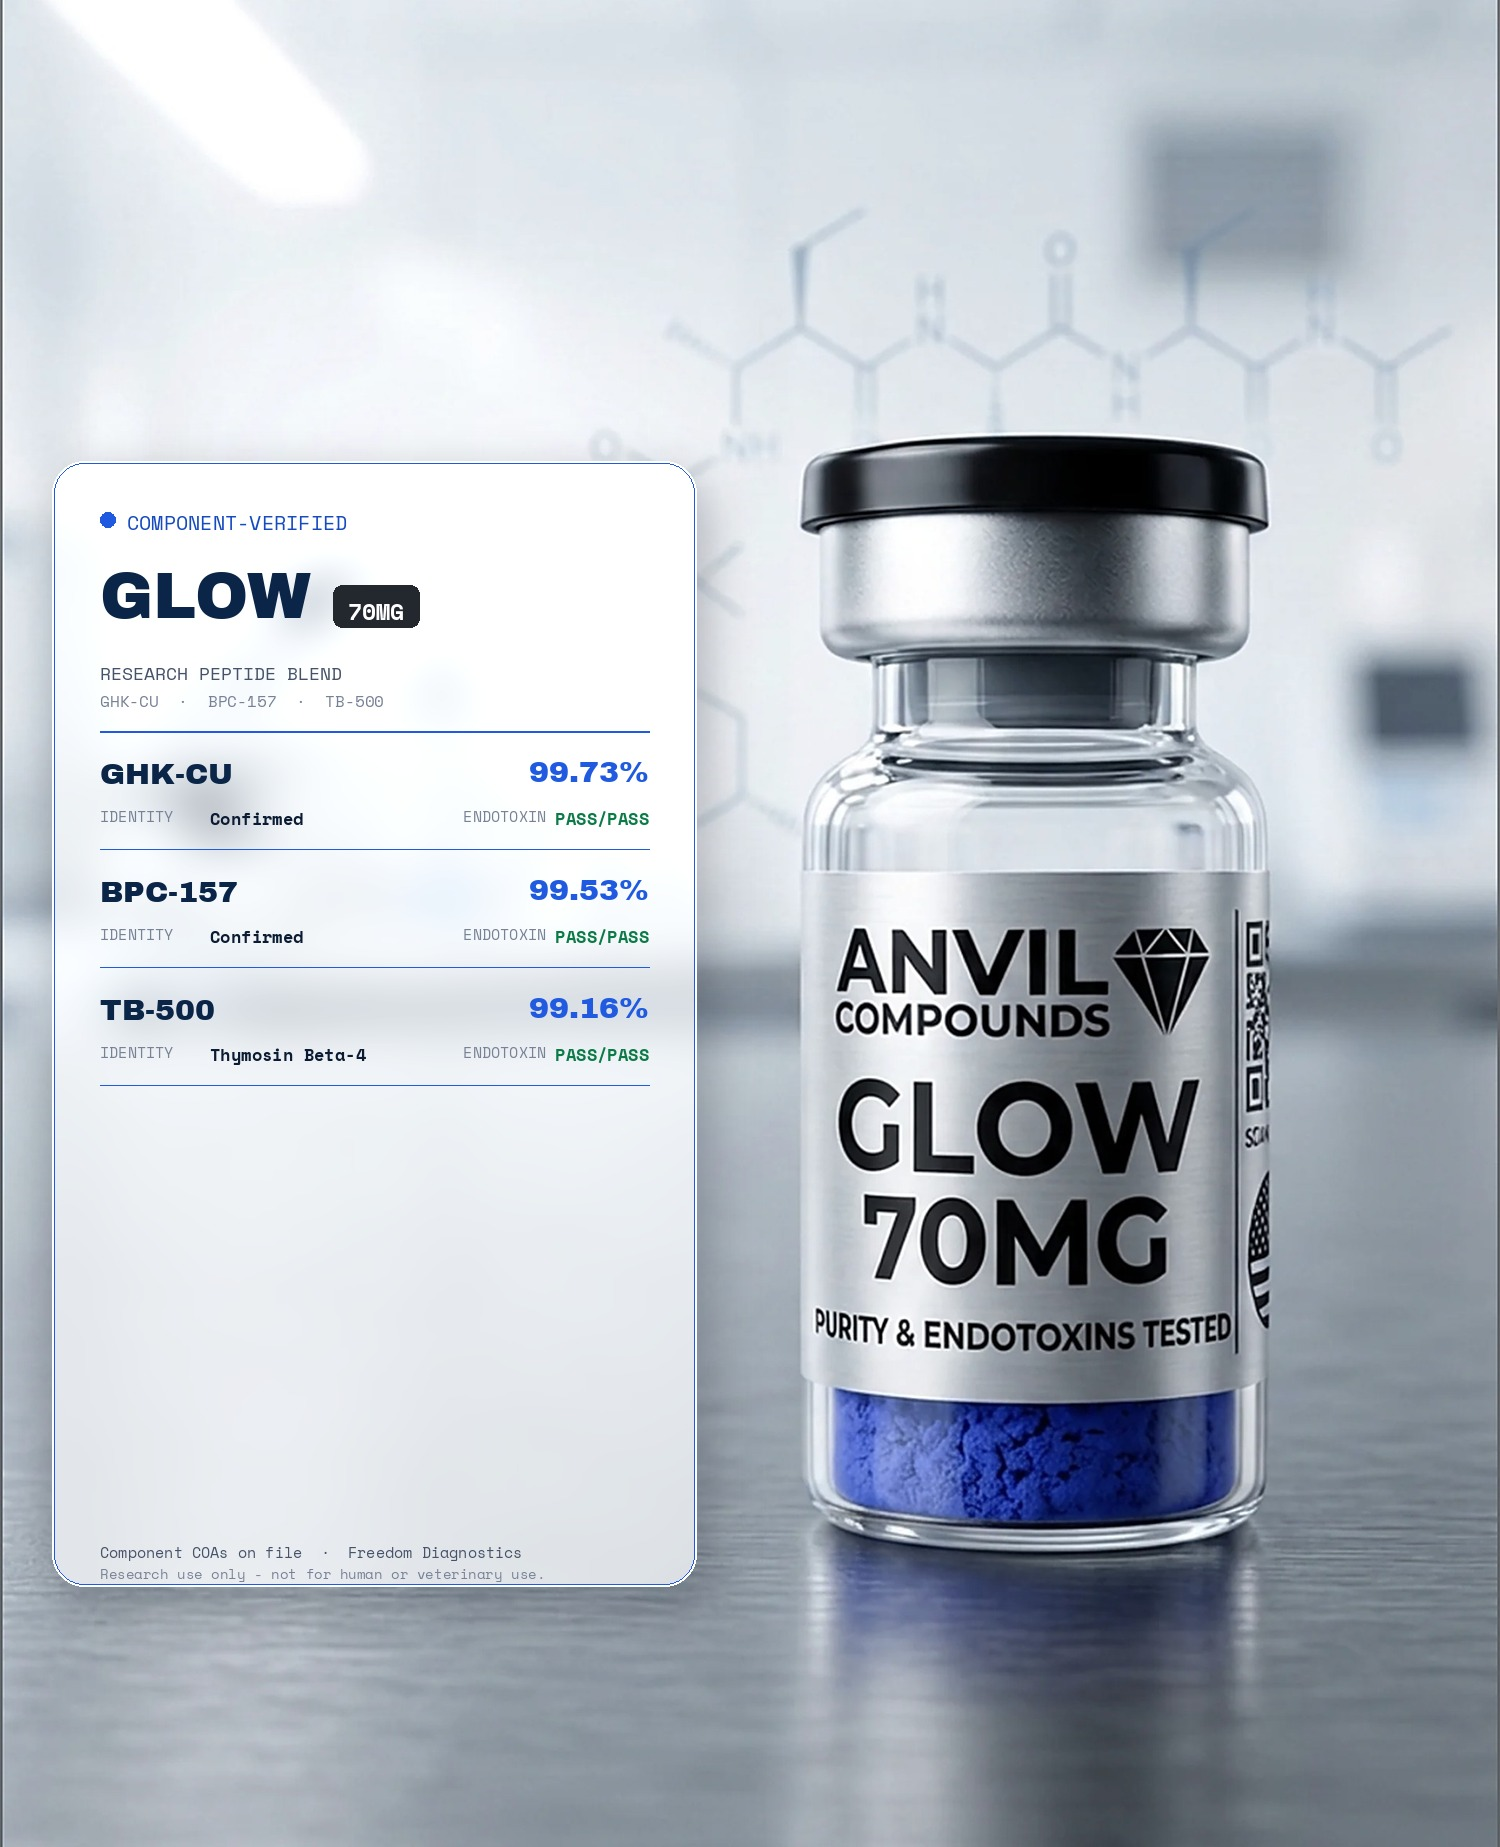
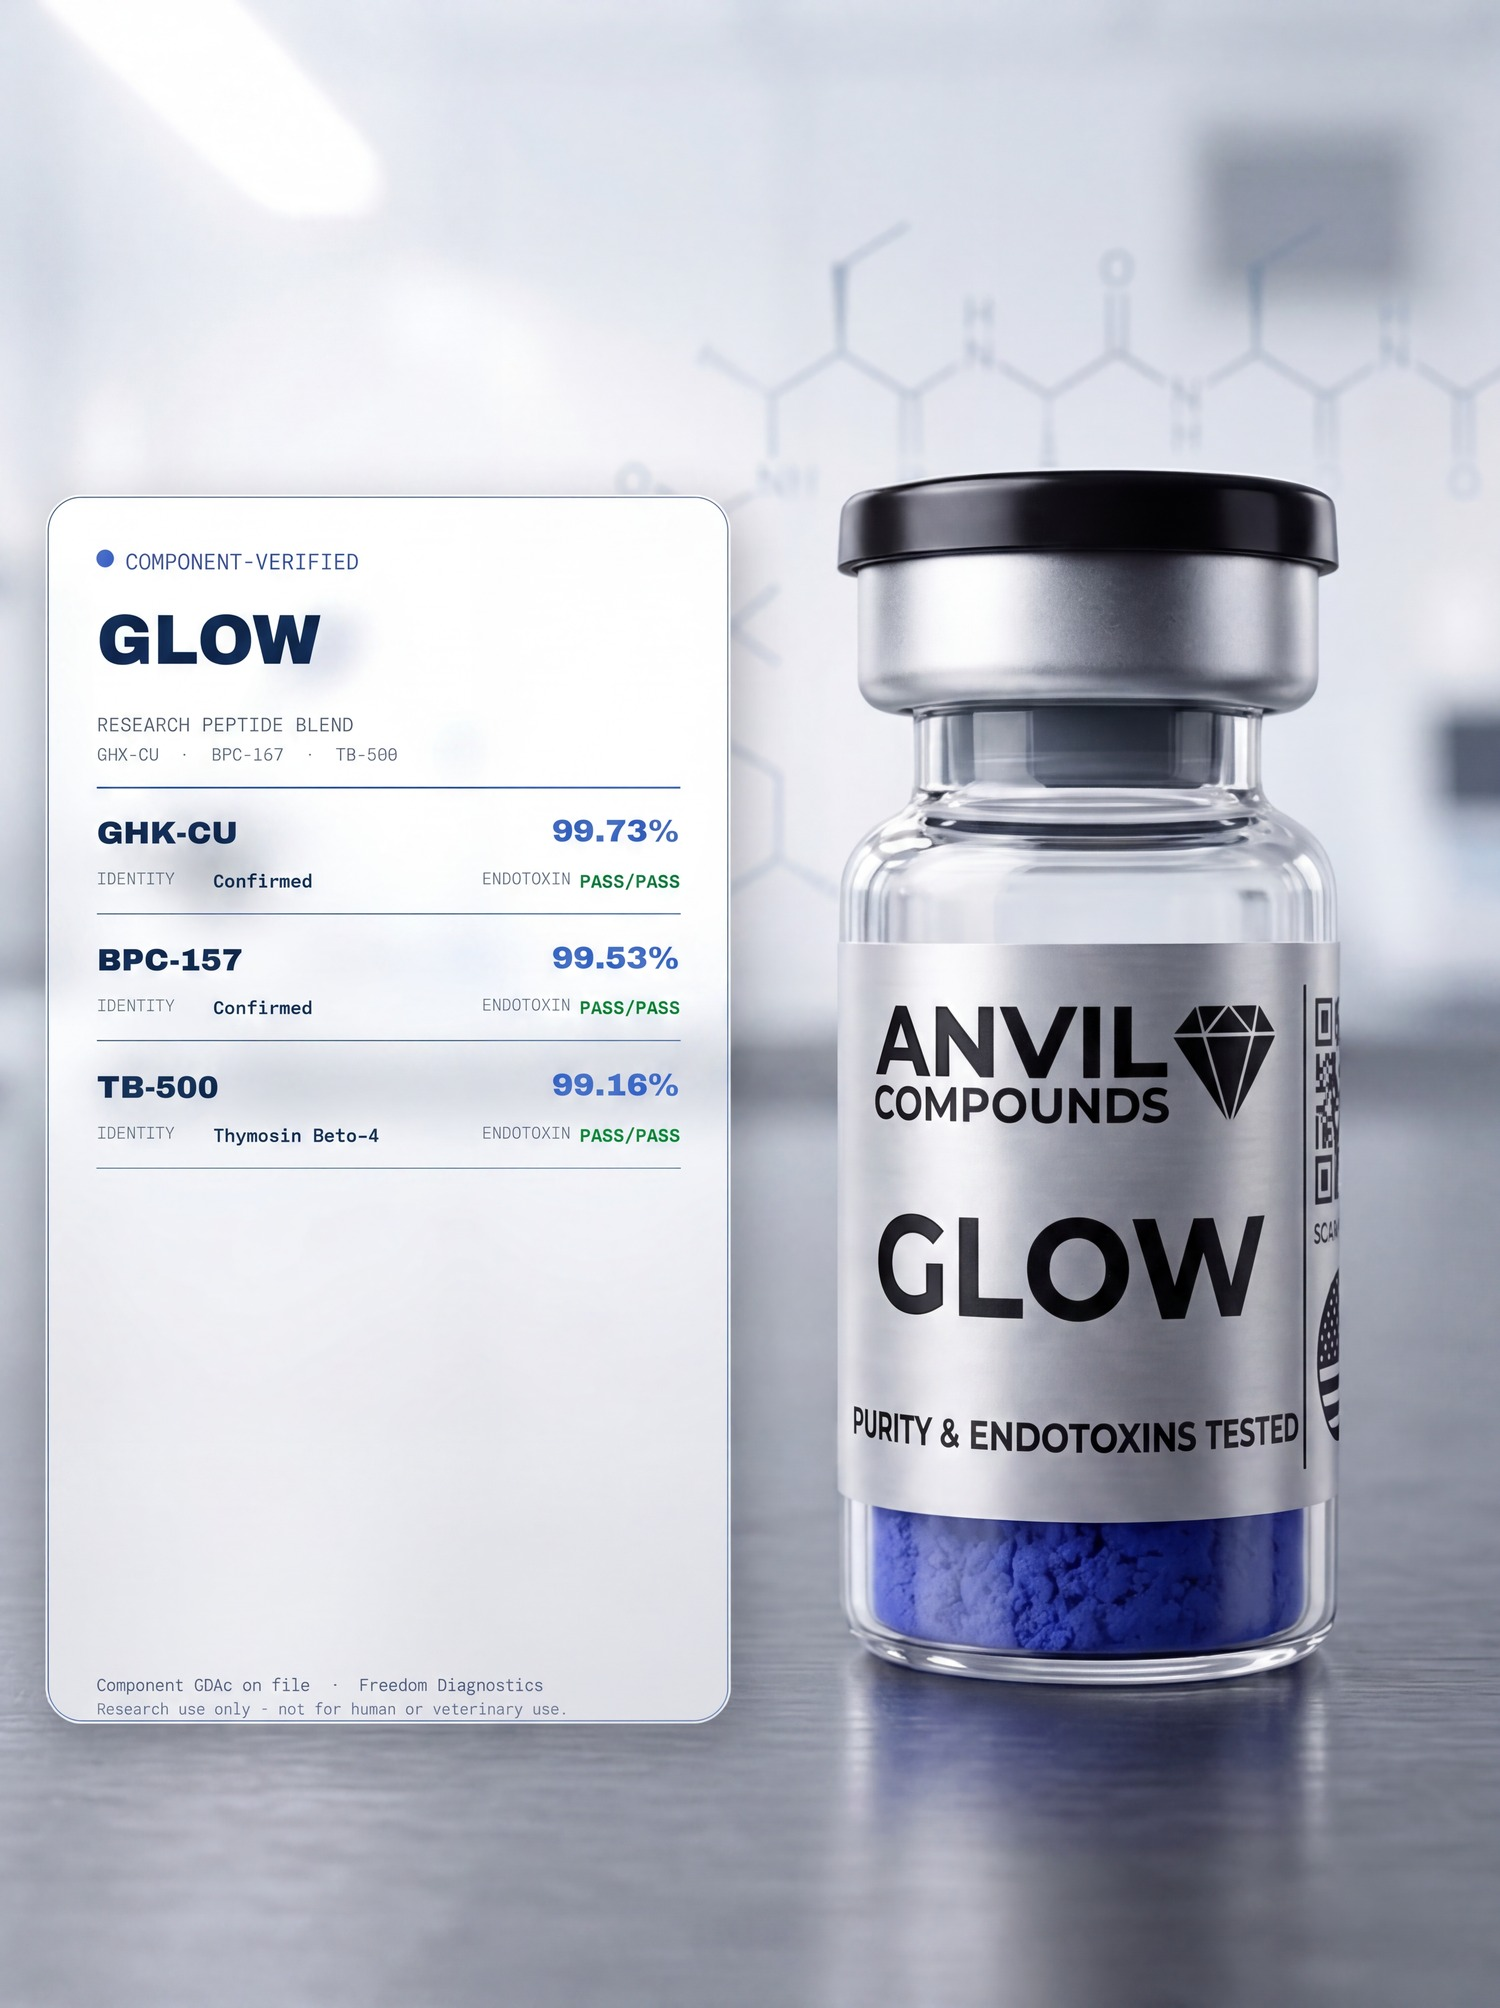
WIP: guest checkout, GLP-RT leading product, new offline payment method, GLOW photo
- Remove login requirement from all 3 checkout steps (guest checkout)
- GLP-RT moved to lead position on homepage preview and unhidden on
  the /catalog default view (GLP-TRZ stays hidden/gated)
- Replace stubbed "Card"/stripe payment option with the real
  WooCommerce offline gateway (bacs — "Pay With Credit Card Via
  Invoice"), placed first in the payment method list
- Remove E-check payment option entirely
- Replace GLOW product photo

diff --git a/components/PaymentInstructions.tsx b/components/PaymentInstructions.tsx
@@ -21,19 +21,19 @@ export interface PaymentInstructionCopy {
 // product name, compound name, or research-chemical term — the shared
 // context above (order number / total / hold date) is all that's available.
 export const PAYMENT_INSTRUCTIONS_COPY: Record<PaymentMethodId, PaymentInstructionCopy> = {
+  bacs: {
+    heading: "Pay With Credit Card Via Invoice",
+    trustLine: "",
+    lines: [
+      "Card payments are processed at the full posted price — no discount applies to this method.",
+      "Our team will follow up by email with a secure payment link to complete your payment by credit or debit card.",
+    ],
+  },
   ethereum: {
     heading: "Pay with Ethereum",
     trustLine: "Your bank statement will show a charge from Anvil Holdings LLC. This is our payment processing partner.",
     lines: [
       "You'll be redirected to our secure payment partner, Bankful, to complete your payment.",
-      "This method includes a 10% instant-payment discount, already reflected in your total.",
-    ],
-  },
-  echeck: {
-    heading: "Pay with E-check",
-    trustLine: "Your bank statement will show a charge from Anvil Holdings LLC. This is our payment processing partner.",
-    lines: [
-      "You'll be redirected to our secure payment partner, Bankful, to complete your payment by e-check.",
       "This method includes a 10% instant-payment discount, already reflected in your total.",
     ],
   },
@@ -60,14 +60,6 @@ export const PAYMENT_INSTRUCTIONS_COPY: Record<PaymentMethodId, PaymentInstructi
     lines: [
       "This payment method includes a 5% instant-payment discount, already reflected in your total.",
       "ACH transfer processing for this order will be available shortly. Our team will follow up by email with next steps.",
-    ],
-  },
-  stripe: {
-    heading: "Pay with Card",
-    trustLine: "",
-    lines: [
-      "Card payments are processed at the full posted price — no discount applies to this method.",
-      "Card payment processing for this order will be available shortly. Our team will follow up by email with next steps.",
     ],
   },
 };

diff --git a/app/checkout/page.tsx b/app/checkout/page.tsx
@@ -1,6 +1,5 @@
 "use client";
 
-import { useEffect } from "react";
 import { useRouter } from "next/navigation";
 import Navbar from "@/components/Navbar";
 import Footer from "@/components/Footer";
@@ -15,13 +14,7 @@ export default function CheckoutPage() {
   const { isAuthenticated, hydrated, user } = useAuth();
   const router = useRouter();
 
-  useEffect(() => {
-    if (hydrated && !isAuthenticated) {
-      router.replace("/account?redirect=/checkout");
-    }
-  }, [hydrated, isAuthenticated, router]);
-
-  if (!hydrated || !isAuthenticated) return null;
+  if (!hydrated) return null;
 
   return (
     <>
@@ -45,10 +38,21 @@ export default function CheckoutPage() {
             </div>
             <h1 className="font-display font-800 text-white text-4xl">Checkout</h1>
             <p className="font-body text-white/40 mt-2">
-              Checking out as <span className="text-white/60">{user?.email}</span> ·{" "}
-              <button onClick={() => { router.push("/account"); }} className="text-blue-400/70 hover:text-blue-400 transition-colors text-sm underline underline-offset-2">
-                Not you?
-              </button>
+              {isAuthenticated ? (
+                <>
+                  Checking out as <span className="text-white/60">{user?.email}</span> ·{" "}
+                  <button onClick={() => { router.push("/account"); }} className="text-blue-400/70 hover:text-blue-400 transition-colors text-sm underline underline-offset-2">
+                    Not you?
+                  </button>
+                </>
+              ) : (
+                <>
+                  Checking out as a guest ·{" "}
+                  <button onClick={() => { router.push("/account?redirect=/checkout"); }} className="text-blue-400/70 hover:text-blue-400 transition-colors text-sm underline underline-offset-2">
+                    Sign in
+                  </button>
+                </>
+              )}
             </p>
           </div>
 

diff --git a/app/checkout/payment/page.tsx b/app/checkout/payment/page.tsx
@@ -17,17 +17,11 @@ import { PAYMENT_METHODS } from "@/lib/paymentMethods";
 export default function PaymentPage() {
   const router = useRouter();
   const { items, subtotal, clearCart } = useCart();
-  const { isAuthenticated, hydrated: authHydrated, user } = useAuth();
+  const { hydrated: authHydrated, user } = useAuth();
   const { step1, coupon, shipping, paymentMethodId, hydrated: checkoutHydrated } = useCheckout();
   const [submitting, setSubmitting] = useState(false);
   const [error, setError] = useState("");
   const [previewTotal, setPreviewTotal] = useState<number | null>(null);
-
-  useEffect(() => {
-    if (authHydrated && !isAuthenticated) {
-      router.replace("/account?redirect=/checkout");
-    }
-  }, [authHydrated, isAuthenticated, router]);
 
   useEffect(() => {
     // Skip while an order submission is in flight — handleContinue clears the
@@ -42,7 +36,7 @@ export default function PaymentPage() {
     }
   }, [checkoutHydrated, items.length, step1.ruoConfirmed, shipping, router, submitting]);
 
-  if (!authHydrated || !isAuthenticated || !checkoutHydrated) return null;
+  if (!authHydrated || !checkoutHydrated) return null;
 
   const selectedMeta = PAYMENT_METHODS.find((m) => m.id === paymentMethodId) ?? null;
   const couponDiscount = computeCouponDiscount(subtotal, coupon);
@@ -116,7 +110,11 @@ export default function PaymentPage() {
             </div>
             <h1 className="font-display font-800 text-white text-4xl">Choose Payment</h1>
             <p className="font-body text-white/40 mt-2">
-              Checking out as <span className="text-white/60">{user?.email}</span>
+              {user ? (
+                <>Checking out as <span className="text-white/60">{user.email}</span></>
+              ) : (
+                "Checking out as a guest"
+              )}
             </p>
           </div>
 

diff --git a/lib/paymentMethods.ts b/lib/paymentMethods.ts
@@ -12,18 +12,17 @@ export interface PaymentMethodMeta {
 }
 
 export const PAYMENT_METHODS: PaymentMethodMeta[] = [
+  { id: "bacs",      label: "Pay With Credit Card Via Invoice", group: "card",    discountPercent: 0,  todoNote: "Our team will follow up by email with a secure payment link." },
   { id: "ethereum",  label: "Ethereum",     group: "instant", discountPercent: 10, todoNote: "TODO: trust/instruction copy — Ethereum (Bankful)" },
-  { id: "echeck",    label: "E-check",      group: "instant", discountPercent: 10, todoNote: "TODO: trust/instruction copy — E-check (Bankful)" },
   { id: "usdc_usdt", label: "USDC / USDT",  group: "instant", discountPercent: 5,  todoNote: "TODO: trust/instruction copy — USDC/USDT (NOWPayments)" },
   { id: "ach",       label: "ACH Transfer", group: "instant", discountPercent: 5,  todoNote: "TODO: trust/instruction copy — ACH (LinkMoney)" },
-  { id: "stripe",    label: "Card",         group: "card",    discountPercent: 0,  todoNote: "TODO: trust/instruction copy — Card (Stripe)" },
   { id: "zelle",     label: "Zelle",        group: "manual",  discountPercent: 0,  todoNote: "TODO: trust/instruction copy — Zelle" },
 ];
 
 export const GROUP_LABELS: Record<PaymentGroup, string> = {
-  instant: "Instant — discounted",
   card: "Card",
+  instant: "Instant — discounted",
   manual: "Manual",
 };
 
-export const GROUP_ORDER: PaymentGroup[] = ["instant", "card", "manual"];
+export const GROUP_ORDER: PaymentGroup[] = ["card", "instant", "manual"];

diff --git a/app/checkout/shipping/page.tsx b/app/checkout/shipping/page.tsx
@@ -13,15 +13,9 @@ import { useCheckout } from "@/lib/checkoutContext";
 
 export default function ShippingPage() {
   const { items } = useCart();
-  const { isAuthenticated, hydrated: authHydrated, user } = useAuth();
+  const { hydrated: authHydrated, user } = useAuth();
   const { step1, shipping, hydrated: checkoutHydrated } = useCheckout();
   const router = useRouter();
-
-  useEffect(() => {
-    if (authHydrated && !isAuthenticated) {
-      router.replace("/account?redirect=/checkout");
-    }
-  }, [authHydrated, isAuthenticated, router]);
 
   useEffect(() => {
     if (checkoutHydrated && (items.length === 0 || !step1.ruoConfirmed)) {
@@ -29,7 +23,7 @@ export default function ShippingPage() {
     }
   }, [checkoutHydrated, items.length, step1.ruoConfirmed, router]);
 
-  if (!authHydrated || !isAuthenticated || !checkoutHydrated) return null;
+  if (!authHydrated || !checkoutHydrated) return null;
 
   return (
     <>
@@ -51,7 +45,11 @@ export default function ShippingPage() {
             </div>
             <h1 className="font-display font-800 text-white text-4xl">Choose Shipping</h1>
             <p className="font-body text-white/40 mt-2">
-              Checking out as <span className="text-white/60">{user?.email}</span>
+              {user ? (
+                <>Checking out as <span className="text-white/60">{user.email}</span></>
+              ) : (
+                "Checking out as a guest"
+              )}
             </p>
           </div>
 

diff --git a/app/checkout/pay/[method]/PayPageClient.tsx b/app/checkout/pay/[method]/PayPageClient.tsx
@@ -8,8 +8,8 @@ import PaymentInstructions from "@/components/PaymentInstructions";
 import { PAYMENT_CONFIG } from "@/lib/paymentConfig";
 import { PaymentMethodId } from "@/lib/paymentMethods";
 
-const VALID_METHODS: PaymentMethodId[] = ["ethereum", "echeck", "zelle", "usdc_usdt", "ach", "stripe"];
-const BANKFUL_METHODS: PaymentMethodId[] = ["ethereum", "echeck"];
+const VALID_METHODS: PaymentMethodId[] = ["bacs", "ethereum", "zelle", "usdc_usdt", "ach"];
+const BANKFUL_METHODS: PaymentMethodId[] = ["ethereum"];
 
 interface OrderStatus {
   orderId: number;
@@ -208,10 +208,10 @@ export default function PayPageClient({ method }: { method: string }) {
                     </div>
                   )}
 
-                  {(method === "usdc_usdt" || method === "ach" || method === "stripe") && (
+                  {(method === "usdc_usdt" || method === "ach") && (
                     <div className="glass-card rounded-2xl p-6">
                       {/* TODO: wire this button to the real integration boundary —
-                          NOWPayments (usdc_usdt), LinkMoney (ach), Stripe (stripe).
+                          NOWPayments (usdc_usdt), LinkMoney (ach).
                           Intentionally stubbed: no payment action happens here yet. */}
                       <button
                         type="button"

diff --git a/components/ProductsSection.tsx b/components/ProductsSection.tsx
@@ -47,13 +47,14 @@ export const CATALOG_TRUST_BADGES: { icon: JSX.Element; label: JSX.Element }[] =
   },
 ];
 
-// Hidden by default under the "All Compounds" tab on the home page only —
-// revealed either by clicking "View All" at the bottom of that grid, or
-// immediately if arriving via a link that set ?catalog=full (Catalog nav,
-// "View Catalog" CTA, Explore Catalog banner button — see Navbar.tsx /
-// HeroSection.tsx). Never hidden under any specific category tab (e.g.
-// Metabolic Research) — only under the default "All Compounds" view.
-const HOME_HIDDEN_ON_ALL_COMPOUNDS = ["GLP-RT", "GLP-TRZ"];
+// Hidden by default under the "All Compounds" tab only — revealed either by
+// clicking "View All" at the bottom of that grid, or immediately if arriving
+// via a link that set ?catalog=full (Catalog nav, "View Catalog" CTA,
+// Explore Catalog banner button — see Navbar.tsx / HeroSection.tsx). Never
+// hidden under any specific category tab (e.g. Metabolic Research) — only
+// under the default "All Compounds" view. GLP-RT is deliberately NOT in this
+// list — it's the catalog's leading product and should always show first.
+const HOME_HIDDEN_ON_ALL_COMPOUNDS = ["GLP-TRZ"];
 
 const PRODUCT_IMAGES: Record<string, string> = {
   "BPC-157":                       "/products/bpc157.jpg",

diff --git a/lib/paymentConfig.ts b/lib/paymentConfig.ts
@@ -48,12 +48,11 @@ export const SUPPORT_EMAIL = "support@anvilcompounds.shop";
 // ──────────────────────────────────────────────────────────────────────────────
 
 export const PAYMENT_CONFIG = {
+  bacs: { status: "live" },
   zelle: { phone: "(619) 653-4735", maxOrder: 2000, status: "live" },
   ethereum: { status: "live" },
-  echeck: { status: "live" },
   usdc_usdt: { status: "placeholder" },
   ach: { status: "placeholder" },
-  stripe: { status: "placeholder" },
 } as const;
 
 // Order hold window for the Bankful/multi-step flow (CHECKOUT_SPEC.md "Order

diff --git a/app/page.tsx b/app/page.tsx
@@ -13,7 +13,7 @@ import { getProducts } from "@/lib/woocommerce";
 // The 5 featured compounds shown unverified as a catalog preview on the
 // homepage. Everything else (pricing, the rest of the catalog) stays
 // behind the gate.
-const PREVIEW_NAMES = ["BPC-157", "GHK-Cu", "TB-500", "GLP-RT", "KLOW"];
+const PREVIEW_NAMES = ["GLP-RT", "BPC-157", "GHK-Cu", "TB-500", "KLOW"];
 
 export default async function Home() {
   const products = await getProducts().catch(() => []);

diff --git a/app/checkout/confirmation/ConfirmationPageClient.tsx b/app/checkout/confirmation/ConfirmationPageClient.tsx
@@ -7,7 +7,7 @@ import Footer from "@/components/Footer";
 import PaymentInstructions from "@/components/PaymentInstructions";
 import { PaymentMethodId } from "@/lib/paymentMethods";
 
-const KNOWN_METHODS: PaymentMethodId[] = ["ethereum", "echeck", "zelle", "usdc_usdt", "ach", "stripe"];
+const KNOWN_METHODS: PaymentMethodId[] = ["bacs", "ethereum", "zelle", "usdc_usdt", "ach"];
 
 interface OrderStatus {
   orderNumber: string;

diff --git a/app/api/checkout/create-payment-link/route.ts b/app/api/checkout/create-payment-link/route.ts
@@ -1,7 +1,7 @@
 import { NextRequest, NextResponse } from "next/server";
 import { createPaymentLink, BankfulError, BankfulMethodId } from "@/lib/bankful";
 
-const VALID_METHODS: BankfulMethodId[] = ["ethereum", "echeck"];
+const VALID_METHODS: BankfulMethodId[] = ["ethereum"];
 
 export async function POST(req: NextRequest) {
   let body: { orderId?: number; orderKey?: string; method?: string };

diff --git a/lib/bankful.ts b/lib/bankful.ts
@@ -8,7 +8,7 @@
 
 const BANKFUL_API_BASE = "https://api.paybybankful.com";
 
-export type BankfulMethodId = "ethereum" | "echeck";
+export type BankfulMethodId = "ethereum";
 
 export class BankfulError extends Error {
   code: "ORDER_KEY_MISMATCH" | "ORDER_NOT_PAYABLE" | "UPSTREAM_ERROR";
